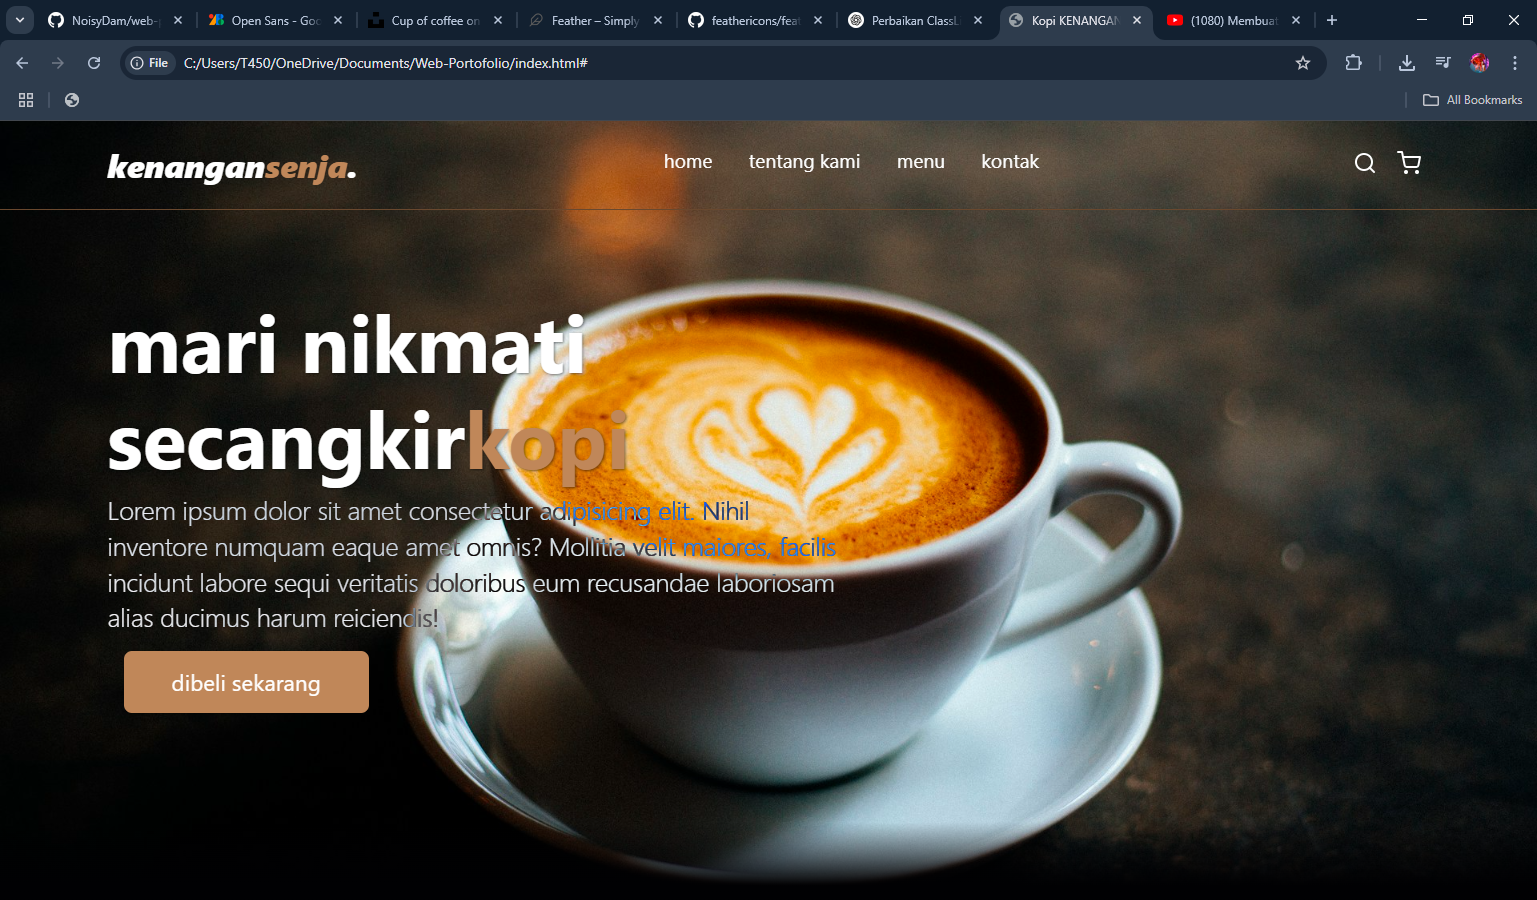
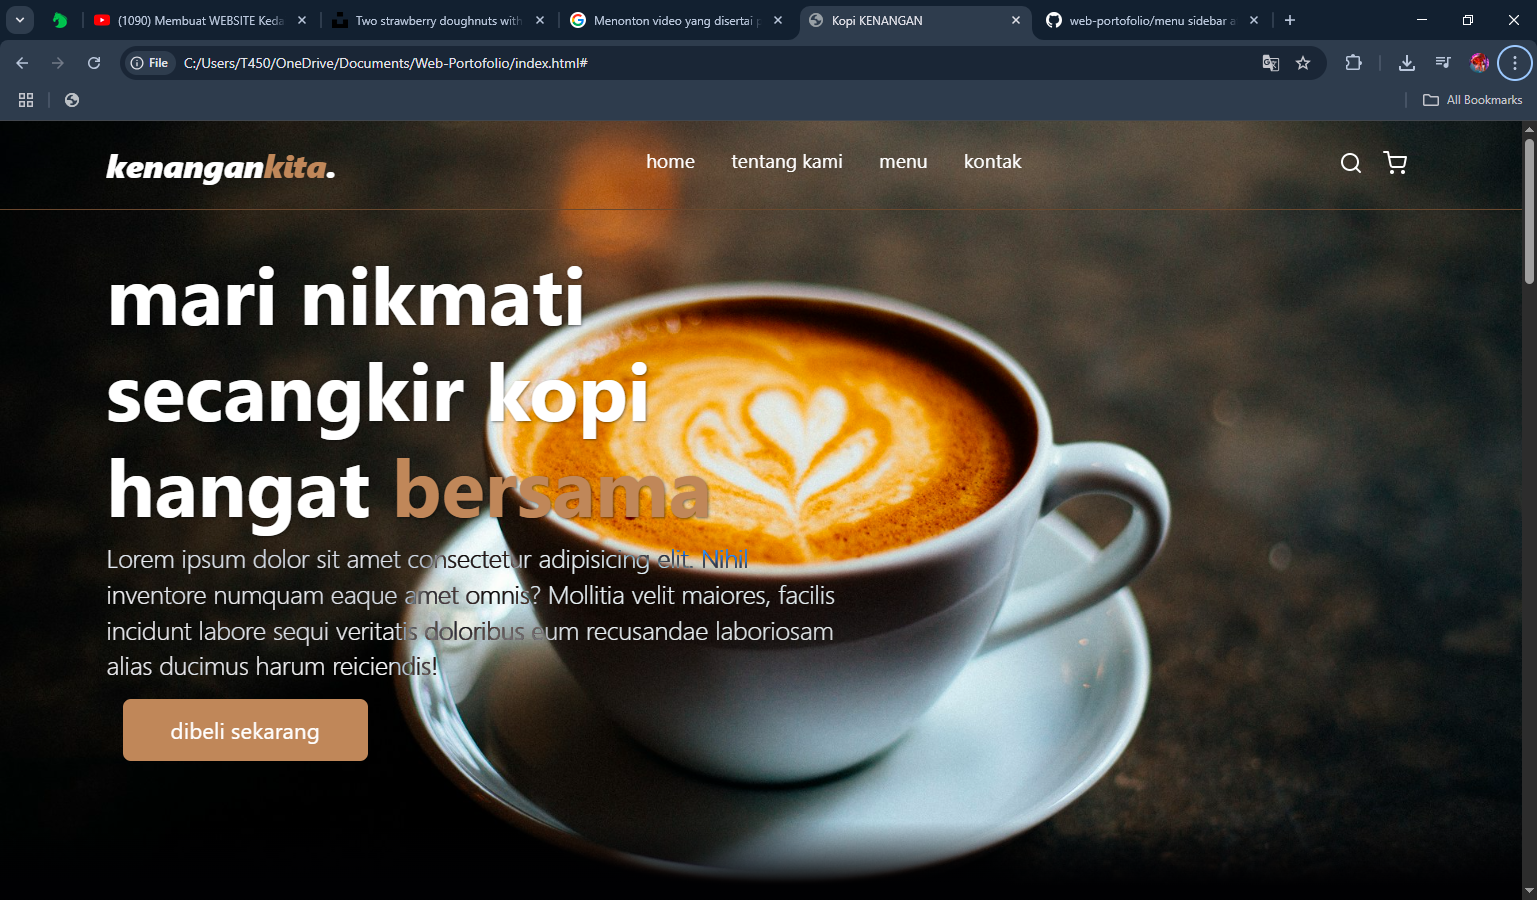
navbar

diff --git a/index.html b/index.html
@@ -15,7 +15,7 @@
 <body>
   <!--navbar start-->
   <nav class="navbar">
-    <a href="#" class="navbar-logo">kenangan<span>senja</span>.</a>
+    <a href="#" class="navbar-logo">kenangan<span>kita</span>.</a>
     <div class="navbar-nav">
       <a href="#">home</a>
       <a href="#about">tentang kami</a>
@@ -31,10 +31,11 @@
   </nav>
   <!--navbar end-->
 
-  <!--ini hero section-->
+  <!--ini hero section--
   <section class="hero" id="home">
     <main class="content">
-      <h1>mari nikmati secangkir<span>kopi</span></h1>
+      <h1>mari nikmati secangkir kopi hangat<span> bersama
+      </span></h1>
       <p>
         Lorem ipsum dolor sit amet consectetur adipisicing elit. Nihil inventore
         numquam eaque amet omnis? Mollitia velit maiores, facilis incidunt
@@ -46,7 +47,7 @@
   </section>
   <!--ini hero section end-->
 
-  <!--ini about section start-->
+  <!--ini about section start--
   <section id="about" class="about">
     <h2><span>tentang</span> kami</h2>
 
@@ -73,10 +74,47 @@
   </section>
   <!-- about section end-->
 
-  <!--menu section starto-->
-<section id="menu" class="menu">
+  <!--menu section starto--
+  <section id="menu" class="menu">
     <h2><span>menu</span> kami</h2>
-</section>
+    <p>
+      Lorem ipsum dolor sit, amet consectetur adipisicing elit. Voluptatem
+      maxime repellat culpa vitae voluptatibus ad.
+    </p>
+    <div class="row">
+      <div class="menu-card">
+        <img src="foto espressoh.jpg" alt="espressoh" class="menu-card-img" />
+        <h3 class="menu-card-title">- espresso -</h3>
+        <p class="menu-card-price">IDR 15K</p>
+      </div>
+      <div class="menu-card">
+        <img src="latte.jpg" alt="latte" class="menu-card-img" />
+        <h3 class="menu-card-title">- espresso -</h3>
+        <p class="menu-card-price">IDR 15K</p>
+      </div>
+            <div class="menu-card">
+        <img src="americano.jpg" alt="americano" class="menu-card-img" />
+        <h3 class="menu-card-title">- americano -</h3>
+        <p class="menu-card-price">IDR 18K</p>
+      </div>
+            <div class="menu-card">
+        <img src="matcha.jpg" alt="matcha" class="menu-card-img" />
+        <h3 class="menu-card-title">- matcha -</h3>
+        <p class="menu-card-price">IDR 16K</p>
+      </div>
+            <div class="menu-card">
+        <img src="bolu.jpg" alt="bolu" class="menu-card-img" />
+        <h3 class="menu-card-title">- espresso -</h3>
+        <p class="menu-card-price">IDR 10K</p>
+      </div>
+            <div class="menu-card">
+        <img src="donat.jpg" alt="donat" class="menu-card-img" />
+        <h3 class="menu-card-title">- donat stroberi -</h3>
+        <p class="menu-card-price">IDR 15K</p>
+      </div>
+      </div>
+    </div>
+  </section>
   <!--menu section end-->
   <script>
     feather.replace();

diff --git a/style.css b/style.css
@@ -17,7 +17,7 @@ body {
     Oxygen, Ubuntu, Cantarell, "Open Sans", "Helvetica Neue", sans-serif;
   background-color: var(--bg);
   color: white;
-  min-height: 2000px;
+  min-height: 4000px;
 }
 
 /* ini css navbar*/
@@ -77,11 +77,11 @@ body {
   color: #b6895b;
 }
 
-#hamburger-menu {
+#hamburger-menutr {
   display: none;
 }
 
-/*hero section*/
+/*hero section*
 .hero {
   min-height: 100vh;
   display: flex;
@@ -143,19 +143,20 @@ body {
   box-shadow: 1px 1px 3px rgba(1, 1, 3, 0.5);
 }
 
-/*about section*/
-.about
+/*about section*
+.about,
 .menu {
   padding: 8rem 7% 1.4rem;
 }
-.about h2
-.menu h2{
+.about h2,
+.menu h2 {
   text-align: center;
   font-size: 2.6rem;
   margin-bottom: 3rem;
 }
 
-.about h2 span {
+.about h2 span,
+.menu h2 span {
   color: var(--primary);
 }
 
@@ -188,15 +189,49 @@ body {
   line-height: 1;
 }
 
+/* menu*
+.menu h2 {
+  margin-bottom: 1rem;
+}
+.menu p {
+  text-align: center;
+  max-width: 30rem;
+  margin: auto;
+  font-size: 1rem;
+  font-weight: 100;
+  line-height: 1.6;
+}
+
+.menu .row {
+  display: flex;
+  flex-wrap: wrap;
+  margin-top: 5rem;
+  justify-content: center;
+}
+
+.menu .row .menu-card {
+  text-align: center;
+  padding-bottom: 4rem;
+}
+
+.menu .row .menu-card img {
+  border-radius: 60%;
+  width: 60%;
+}
+
+.menu .row .menu-card .menu-card-title {
+  margin-top: 1rem auto 0.5rem;
+}
+
 /*media queries*/
 
-/*laptop*/
+/*laptop*
 @media (max-width: 1366px) {
   html {
     font-size: 75%;
   }
 }
-/*tablet*/
+/*tablet*
 @media (max-width: 758px) {
   html {
     font-size: 62.5%;
@@ -255,7 +290,7 @@ body {
     font-size: 1.5rem;
   }
 }
-/*hp*/
+/*hp*
 @media (max-width: 450px) {
   html {
     font-size: 50%;
